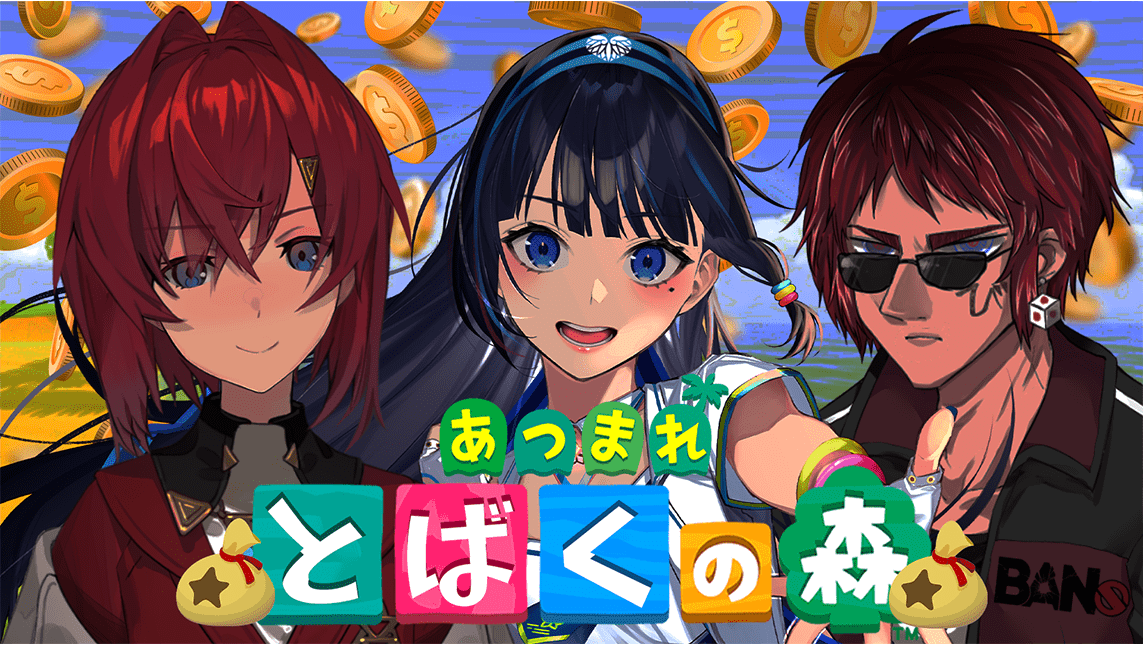
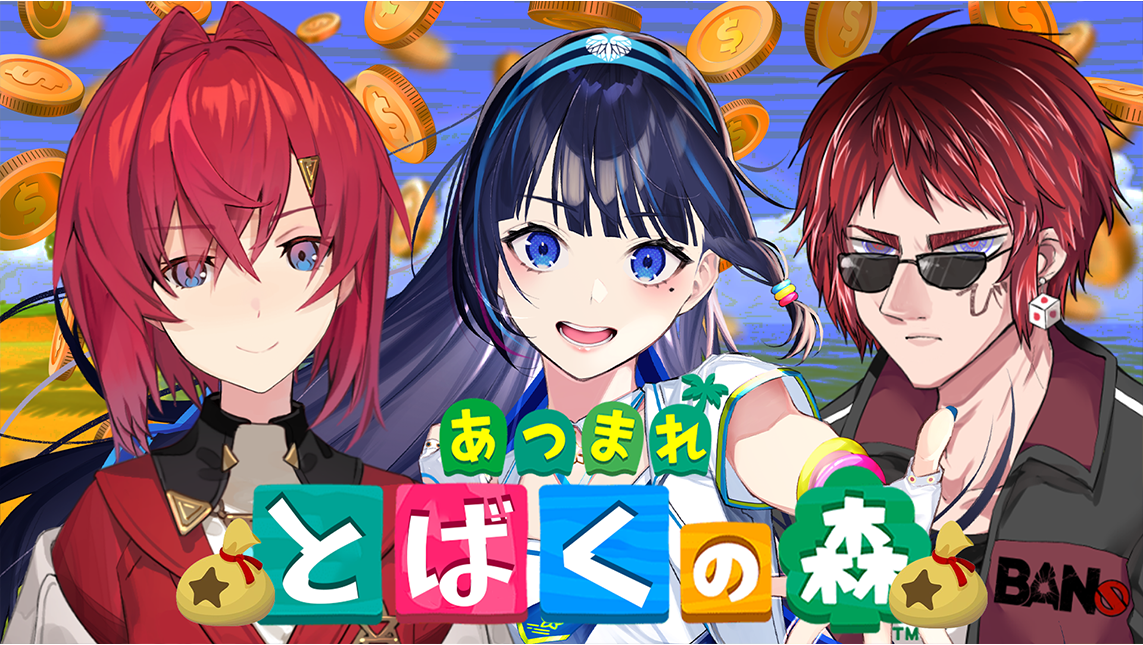
no message

diff --git a/index.html b/index.html
@@ -1,4 +1,4 @@
-
+<!DOCTYPE html5>
 <head>
   <!--meta-->
   <title>ぽんぽこ24 vol.4</title>
@@ -148,7 +148,7 @@
                     <div class="carousel-caption d-none d-md-block">
                       <h5>03:00-04:00　ぽこピー批評 ～beyond～</h5>
                     </div></a></div>
-                <div class="carousel-item"><a href="#99"><img class="d-block w-100" src="/img/thumbnail/99.png"/>
+                <div class="carousel-item"><a href="#21"><img class="d-block w-100" src="/img/thumbnail/21.png"/>
                     <div class="carousel-caption d-none d-md-block">
                       <h5>04:00-05:00　逆凸(とつ)</h5>
                     </div></a></div>
@@ -168,13 +168,13 @@
                     <div class="carousel-caption d-none d-md-block">
                       <h5>08:00-10:00　あさごはん</h5>
                     </div></a></div>
-                <div class="carousel-item"><a href="#99"><img class="d-block w-100" src="/img/thumbnail/99.png"/>
+                <div class="carousel-item"><a href="#5"><img class="d-block w-100" src="/img/thumbnail/5.png"/>
                     <div class="carousel-caption d-none d-md-block">
-                      <h5>10:00-11:00　3D逆凸(とつ)</h5>
+                      <h5>10:00-11:00　3D凸(とつ)コラボ</h5>
                     </div></a></div>
                 <div class="carousel-item"><a href="#16"><img class="d-block w-100" src="/img/thumbnail/16.png"/>
                     <div class="carousel-caption d-none d-md-block">
-                      <h5>12:00-13:00　あつまれ！賭博の森</h5>
+                      <h5>12:00-13:00　あつまれ！とばくの森</h5>
                     </div></a></div>
                 <div class="carousel-item"><a href="#15"><img class="d-block w-100" src="/img/thumbnail/15.png"/>
                     <div class="carousel-caption d-none d-md-block">
@@ -728,7 +728,7 @@
                     <hr/>
                     <!--separater-->
                     <!--timeline-->
-                    <div class="timeline_item mb-2" id="99">
+                    <div class="timeline_item mb-2" id="21">
                       <div class="time_date">
                         <!-- --------Time---------->
                         <p class="time">04:00-05:00</p>
@@ -738,23 +738,23 @@
                           <div class="row pt-1 pl-lg-2">
                             <!-- --------Thumbnail---------->
                             <div class="col-12 col-lg-4 effect-fade">
-                              <div class="img-wrap mt-lg-2 tn"><img class="img-fluid lazyload" data-src="/img/thumbnail/99.png"/></div>
+                              <div class="img-wrap mt-lg-2 tn"><img class="img-fluid lazyload" data-src="/img/thumbnail/21.png"/></div>
                             </div>
                             <!-- --------Description---------->
                             <div class="col-12 col-lg-6 mt-3 mt-lg-0">
                               <ul class="nav nav-tabs">
-                                <li class="nav-item"><a class="nav-link active" href="#Japanese_99" data-toggle="tab">日本語</a></li>
-                                <li class="nav-item"><a class="nav-link" href="#English_99" data-toggle="tab">English</a></li>
-                                <li class="nav-item"><a class="nav-link" href="#Chinese_99" data-toggle="tab">中文</a></li>
+                                <li class="nav-item"><a class="nav-link active" href="#Japanese_21" data-toggle="tab">日本語</a></li>
+                                <li class="nav-item"><a class="nav-link" href="#English_21" data-toggle="tab">English</a></li>
+                                <li class="nav-item"><a class="nav-link" href="#Chinese_21" data-toggle="tab">中文</a></li>
                               </ul>
                               <div class="tab-content p-2 effect-fade">
-                                <div class="tab-pane active" id="Japanese_99">
+                                <div class="tab-pane active" id="Japanese_21">
                                   <p>ぽこピーが様々なVtuberへ逆凸！ぽんぽこが気になっているあのVtuberも登場するかも……？</p>
                                 </div>
-                                <div class="tab-pane" id="English_99">
+                                <div class="tab-pane" id="English_21">
                                   <p>Meg Shinonome, a multi-creator, is here! 30 minutes with plenty of soothing ingredients.Also, don't forget to check out Chancho and Meg Duo's astrological horoscope!</p>
                                 </div>
-                                <div class="tab-pane" id="Chinese_99">
+                                <div class="tab-pane" id="Chinese_21">
                                   <p>30分钟的时间里，有大量的舒缓成分。另外，别忘了看看灿灿和梅格多的星座运势!</p>
                                 </div>
                               </div>
@@ -1025,33 +1025,33 @@
                     <hr/>
                     <!--separater-->
                     <!--timeline-->
-                    <div class="timeline_item mb-2" id="99">
+                    <div class="timeline_item mb-2" id="5">
                       <div class="time_date">
                         <!-- --------Time---------->
                         <p class="time">10:00-11:00</p>
                         <!-- --------Title---------->
-                        <p class="flag">#14 3D逆凸(とつ)</p>
+                        <p class="flag">#14 3D凸(とつ)コラボ</p>
                         <div class="container-fluid">
                           <div class="row pt-1 pl-lg-2">
                             <!-- --------Thumbnail---------->
                             <div class="col-12 col-lg-4 effect-fade">
-                              <div class="img-wrap mt-lg-2 tn"><img class="img-fluid lazyload" data-src="/img/thumbnail/99.png"/></div>
+                              <div class="img-wrap mt-lg-2 tn"><img class="img-fluid lazyload" data-src="/img/thumbnail/5.png"/></div>
                             </div>
                             <!-- --------Description---------->
                             <div class="col-12 col-lg-6 mt-3 mt-lg-0">
                               <ul class="nav nav-tabs">
-                                <li class="nav-item"><a class="nav-link active" href="#Japanese_99" data-toggle="tab">日本語</a></li>
-                                <li class="nav-item"><a class="nav-link" href="#English_99" data-toggle="tab">English</a></li>
-                                <li class="nav-item"><a class="nav-link" href="#Chinese_99" data-toggle="tab">中文</a></li>
+                                <li class="nav-item"><a class="nav-link active" href="#Japanese_5" data-toggle="tab">日本語</a></li>
+                                <li class="nav-item"><a class="nav-link" href="#English_5" data-toggle="tab">English</a></li>
+                                <li class="nav-item"><a class="nav-link" href="#Chinese_5" data-toggle="tab">中文</a></li>
                               </ul>
                               <div class="tab-content p-2 effect-fade">
-                                <div class="tab-pane active" id="Japanese_99">
-                                  <p>Virtual Castを使った逆凸3Dバージョン！　ゲストは見てからのお楽しみ！</p>
+                                <div class="tab-pane active" id="Japanese_5">
+                                  <p>Virtual Castを使った凸3Dバージョン！　ゲストは見てからのお楽しみ！</p>
                                 </div>
-                                <div class="tab-pane" id="English_99">
+                                <div class="tab-pane" id="English_5">
                                   <p>Meg Shinonome, a multi-creator, is here! 30 minutes with plenty of soothing ingredients.Also, don't forget to check out Chancho and Meg Duo's astrological horoscope!</p>
                                 </div>
-                                <div class="tab-pane" id="Chinese_99">
+                                <div class="tab-pane" id="Chinese_5">
                                   <p>30分钟的时间里，有大量的舒缓成分。另外，别忘了看看灿灿和梅格多的星座运势!</p>
                                 </div>
                               </div>
@@ -1060,8 +1060,8 @@
                             <div class="col-12 col-lg-2 mt-lg-4">
                               <div class="container-fluid effect-fade">
                                 <div class="row justify-content-center icons">
-                                  <div class="col-lg-12 col-3 effect-fade"><a class="sns_btn btn_twitter mx-auto d-block mb-2" href="https://twitter.com/intent/tweet?text=ぽんぽこ24 vol.4 「3D逆凸(とつ)」は10:00-11:00に開催！概要をチェック→&amp;url=https://ponpoko24.party/&amp;hashtags=ぽんぽこ24&amp;related=osyarenuts,ponpokoka" rel="nofollow" target="_blank"><i class="fab fa-twitter"></i></a></div>
-                                  <div class="col-lg-12 col-3 effect-fade"><a class="sns_btn btn_line mx-auto d-block mb-2" href="https://line.me/R/msg/text/?ぽんぽこ24 vol.4 「3D逆凸(とつ)」は10:00-11:00に開催！概要をチェック→ https://ponpoko24.party/" target="_blank" rel="nofollow"><i class="fab fa-line"></i></a></div>
+                                  <div class="col-lg-12 col-3 effect-fade"><a class="sns_btn btn_twitter mx-auto d-block mb-2" href="https://twitter.com/intent/tweet?text=ぽんぽこ24 vol.4 「3D凸(とつ)コラボ」は10:00-11:00に開催！概要をチェック→&amp;url=https://ponpoko24.party/&amp;hashtags=ぽんぽこ24&amp;related=osyarenuts,ponpokoka" rel="nofollow" target="_blank"><i class="fab fa-twitter"></i></a></div>
+                                  <div class="col-lg-12 col-3 effect-fade"><a class="sns_btn btn_line mx-auto d-block mb-2" href="https://line.me/R/msg/text/?ぽんぽこ24 vol.4 「3D凸(とつ)コラボ」は10:00-11:00に開催！概要をチェック→ https://ponpoko24.party/" target="_blank" rel="nofollow"><i class="fab fa-line"></i></a></div>
                                   <div class="col-lg-12 col-3 effect-fade"><a class="sns_btn btn_facebook mx-auto d-block mb-2" href="https://www.facebook.com/share.php?u=https://ponpoko24.party" target="_blank" rel="nofollow"><i class="fab fa-facebook"></i></a></div>
                                   <div class="col-lg-12 col-3 effect-fade"><a class="sns_btn btn_pocket mx-auto d-block mb-2" href="https://getpocket.com/edit?url=https://ponpoko24.party" target="_blank" rel="nofollow"><i class="fab fa-get-pocket"></i></a></div>
                                 </div>
@@ -1096,7 +1096,7 @@
                         <!-- --------Time---------->
                         <p class="time">12:00-13:00</p>
                         <!-- --------Title---------->
-                        <p class="flag">#15 あつまれ！賭博の森</p>
+                        <p class="flag">#15 あつまれ！とばくの森</p>
                         <div class="container-fluid">
                           <div class="row pt-1 pl-lg-2">
                             <!-- --------Thumbnail---------->
@@ -1126,8 +1126,8 @@
                             <div class="col-12 col-lg-2 mt-lg-4">
                               <div class="container-fluid effect-fade">
                                 <div class="row justify-content-center icons">
-                                  <div class="col-lg-12 col-3 effect-fade"><a class="sns_btn btn_twitter mx-auto d-block mb-2" href="https://twitter.com/intent/tweet?text=ぽんぽこ24 vol.4 「あつまれ！賭博の森」は12:00-13:00に開催！概要をチェック→&amp;url=https://ponpoko24.party/&amp;hashtags=ぽんぽこ24&amp;related=osyarenuts,ponpokoka" rel="nofollow" target="_blank"><i class="fab fa-twitter"></i></a></div>
-                                  <div class="col-lg-12 col-3 effect-fade"><a class="sns_btn btn_line mx-auto d-block mb-2" href="https://line.me/R/msg/text/?ぽんぽこ24 vol.4 「あつまれ！賭博の森」は12:00-13:00に開催！概要をチェック→ https://ponpoko24.party/" target="_blank" rel="nofollow"><i class="fab fa-line"></i></a></div>
+                                  <div class="col-lg-12 col-3 effect-fade"><a class="sns_btn btn_twitter mx-auto d-block mb-2" href="https://twitter.com/intent/tweet?text=ぽんぽこ24 vol.4 「あつまれ！とばくの森」は12:00-13:00に開催！概要をチェック→&amp;url=https://ponpoko24.party/&amp;hashtags=ぽんぽこ24&amp;related=osyarenuts,ponpokoka" rel="nofollow" target="_blank"><i class="fab fa-twitter"></i></a></div>
+                                  <div class="col-lg-12 col-3 effect-fade"><a class="sns_btn btn_line mx-auto d-block mb-2" href="https://line.me/R/msg/text/?ぽんぽこ24 vol.4 「あつまれ！とばくの森」は12:00-13:00に開催！概要をチェック→ https://ponpoko24.party/" target="_blank" rel="nofollow"><i class="fab fa-line"></i></a></div>
                                   <div class="col-lg-12 col-3 effect-fade"><a class="sns_btn btn_facebook mx-auto d-block mb-2" href="https://www.facebook.com/share.php?u=https://ponpoko24.party" target="_blank" rel="nofollow"><i class="fab fa-facebook"></i></a></div>
                                   <div class="col-lg-12 col-3 effect-fade"><a class="sns_btn btn_pocket mx-auto d-block mb-2" href="https://getpocket.com/edit?url=https://ponpoko24.party" target="_blank" rel="nofollow"><i class="fab fa-get-pocket"></i></a></div>
                                 </div>
@@ -1139,13 +1139,13 @@
                             <div class="col effect-fade">
                               <h3 class="mt-lg-1 mb-0 text-center text-lg-left">Guest</h3>
                               <!-- --------PC---------->
-                              <div class="guest-list d-none d-lg-block"><a href="https://twitter.com/fuji_aoi_0618" target="_blank"><img class="img-thumbnail guest m-2 mb-3 mb-lg-0 lazyload" data-src="/img/guest/30.png"/></a><a href="https://twitter.com/Ange_Katrina_" target="_blank"><img class="img-thumbnail guest m-2 mb-3 mb-lg-0 lazyload" data-src="/img/guest/31.png"/></a><a href="https://twitter.com/tenkaitukasa" target="_blank"><img class="img-thumbnail guest m-2 mb-3 mb-lg-0 lazyload" data-src="/img/guest/32.png"/></a>
+                              <div class="guest-list d-none d-lg-block"><a href="https://twitter.com/Ange_Katrina_" target="_blank"><img class="img-thumbnail guest m-2 mb-3 mb-lg-0 lazyload" data-src="/img/guest/31.png"/></a><a href="https://twitter.com/fuji_aoi_0618" target="_blank"><img class="img-thumbnail guest m-2 mb-3 mb-lg-0 lazyload" data-src="/img/guest/30.png"/></a><a href="https://twitter.com/tenkaitukasa" target="_blank"><img class="img-thumbnail guest m-2 mb-3 mb-lg-0 lazyload" data-src="/img/guest/32.png"/></a>
                               </div>
                               <!-- --------SP---------->
                               <div class="container-fluid d-lg-none d-block">
                                 <div class="row justify-content-between guest-list-sp">
-                                  <div class="col-6 col-md-4"><a href="https://twitter.com/fuji_aoi_0618" target="_blank"><img class="img-thumbnail guest mb-3 mb-lg-0 lazyload" data-src="/img/guest/30.png"/></a></div>
                                   <div class="col-6 col-md-4"><a href="https://twitter.com/Ange_Katrina_" target="_blank"><img class="img-thumbnail guest mb-3 mb-lg-0 lazyload" data-src="/img/guest/31.png"/></a></div>
+                                  <div class="col-6 col-md-4"><a href="https://twitter.com/fuji_aoi_0618" target="_blank"><img class="img-thumbnail guest mb-3 mb-lg-0 lazyload" data-src="/img/guest/30.png"/></a></div>
                                   <div class="col-6 col-md-4"><a href="https://twitter.com/tenkaitukasa" target="_blank"><img class="img-thumbnail guest mb-3 mb-lg-0 lazyload" data-src="/img/guest/32.png"/></a></div>
                                 </div>
                               </div>
@@ -1208,14 +1208,14 @@
                             <div class="col effect-fade">
                               <h3 class="mt-lg-1 mb-0 text-center text-lg-left">Guest</h3>
                               <!-- --------PC---------->
-                              <div class="guest-list d-none d-lg-block"><a href="https://twitter.com/dekakinb" target="_blank"><img class="img-thumbnail guest m-2 mb-3 mb-lg-0 lazyload" data-src="/img/guest/29.png"/></a><a target="_blank"><img class="img-thumbnail guest m-2 mb-3 mb-lg-0 lazyload" data-src="/img/guest/99.png"/></a><a target="_blank"><img class="img-thumbnail guest m-2 mb-3 mb-lg-0 lazyload" data-src="/img/guest/99.png"/></a>
+                              <div class="guest-list d-none d-lg-block"><a target="_blank"><img class="img-thumbnail guest m-2 mb-3 mb-lg-0 lazyload" data-src="/img/guest/99.png"/></a><a target="_blank"><img class="img-thumbnail guest m-2 mb-3 mb-lg-0 lazyload" data-src="/img/guest/99.png"/></a><a href="https://twitter.com/dekakinb" target="_blank"><img class="img-thumbnail guest m-2 mb-3 mb-lg-0 lazyload" data-src="/img/guest/29.png"/></a>
                               </div>
                               <!-- --------SP---------->
                               <div class="container-fluid d-lg-none d-block">
                                 <div class="row justify-content-between guest-list-sp">
+                                  <div class="col-6 col-md-4"><a target="_blank"><img class="img-thumbnail guest mb-3 mb-lg-0 lazyload" data-src="/img/guest/99.png"/></a></div>
+                                  <div class="col-6 col-md-4"><a target="_blank"><img class="img-thumbnail guest mb-3 mb-lg-0 lazyload" data-src="/img/guest/99.png"/></a></div>
                                   <div class="col-6 col-md-4"><a href="https://twitter.com/dekakinb" target="_blank"><img class="img-thumbnail guest mb-3 mb-lg-0 lazyload" data-src="/img/guest/29.png"/></a></div>
-                                  <div class="col-6 col-md-4"><a target="_blank"><img class="img-thumbnail guest mb-3 mb-lg-0 lazyload" data-src="/img/guest/99.png"/></a></div>
-                                  <div class="col-6 col-md-4"><a target="_blank"><img class="img-thumbnail guest mb-3 mb-lg-0 lazyload" data-src="/img/guest/99.png"/></a></div>
                                 </div>
                               </div>
                             </div>
@@ -1339,13 +1339,13 @@
                             <div class="col effect-fade">
                               <h3 class="mt-lg-1 mb-0 text-center text-lg-left">Guest</h3>
                               <!-- --------PC---------->
-                              <div class="guest-list d-none d-lg-block"><a href="https://twitter.com/ARuKo_OKaRa" target="_blank"><img class="img-thumbnail guest m-2 mb-3 mb-lg-0 lazyload" data-src="/img/guest/1.png"/></a><a href="https://twitter.com/choueki_tarou" target="_blank"><img class="img-thumbnail guest m-2 mb-3 mb-lg-0 lazyload" data-src="/img/guest/27.png"/></a>
+                              <div class="guest-list d-none d-lg-block"><a href="https://twitter.com/choueki_tarou" target="_blank"><img class="img-thumbnail guest m-2 mb-3 mb-lg-0 lazyload" data-src="/img/guest/27.png"/></a><a href="https://twitter.com/ARuKo_OKaRa" target="_blank"><img class="img-thumbnail guest m-2 mb-3 mb-lg-0 lazyload" data-src="/img/guest/1.png"/></a>
                               </div>
                               <!-- --------SP---------->
                               <div class="container-fluid d-lg-none d-block">
                                 <div class="row justify-content-between guest-list-sp">
-                                  <div class="col-6 col-md-4"><a href="https://twitter.com/ARuKo_OKaRa" target="_blank"><img class="img-thumbnail guest mb-3 mb-lg-0 lazyload" data-src="/img/guest/1.png"/></a></div>
                                   <div class="col-6 col-md-4"><a href="https://twitter.com/choueki_tarou" target="_blank"><img class="img-thumbnail guest mb-3 mb-lg-0 lazyload" data-src="/img/guest/27.png"/></a></div>
+                                  <div class="col-6 col-md-4"><a href="https://twitter.com/ARuKo_OKaRa" target="_blank"><img class="img-thumbnail guest mb-3 mb-lg-0 lazyload" data-src="/img/guest/1.png"/></a></div>
                                 </div>
                               </div>
                             </div>
